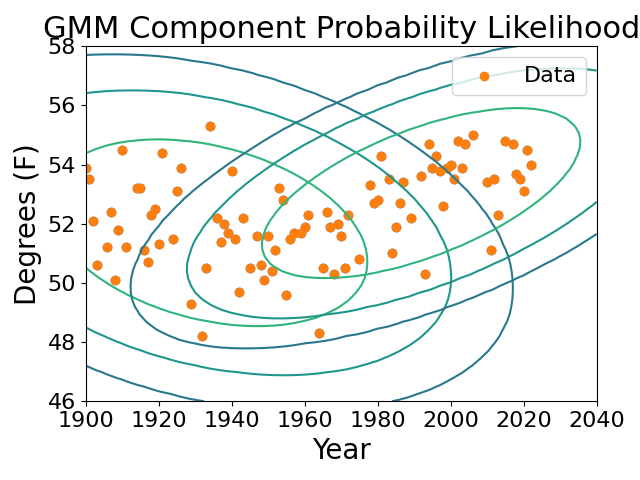
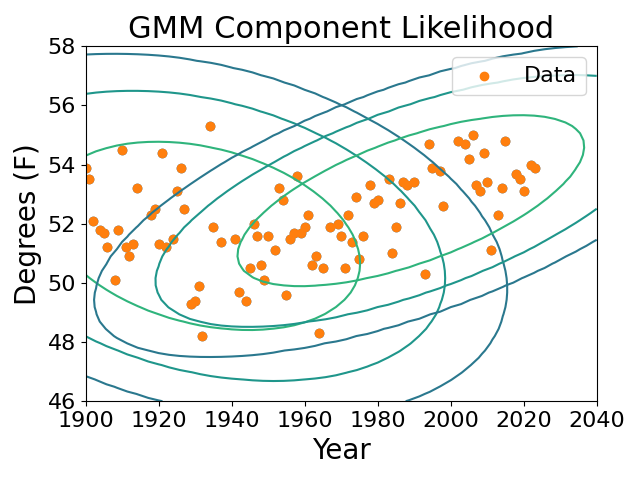
Update plot visuals.

diff --git a/data_cleaning_2.py b/data_cleaning_2.py
@@ -217,7 +217,7 @@ CS = plt.contour(
 
 # CB = plt.colorbar(CS, shrink=0.8, extend="both")
 
-plt.title("GMM Component Probability Likelihood", fontsize=22)
+plt.title("GMM Component Likelihood", fontsize=22)
 plt.axis("tight")
 plt.ylim((46, 58))
 plt.ylabel("Degrees (F)", fontsize=20)
@@ -236,7 +236,7 @@ plt.scatter(xt, yt, label="Data")
 plt.contour(
     X[X > 1930].reshape(50, -1), Y[X > 1930].reshape(50, -1), (Z2[:, :, 0] - Z2[:, :, 1])[X > 1930].reshape(50, -1), levels=np.linspace(-.5, .5, 3), label="Component Membership Prob. Bounds"
 )
-plt.title("GMM Difference of Membership Probability Contours", fontsize=22)
+plt.title("GMM Membership Contours", fontsize=22)
 plt.axis("tight")
 plt.ylim((46, 58))
 plt.ylabel("Degrees (F)", fontsize=20)
